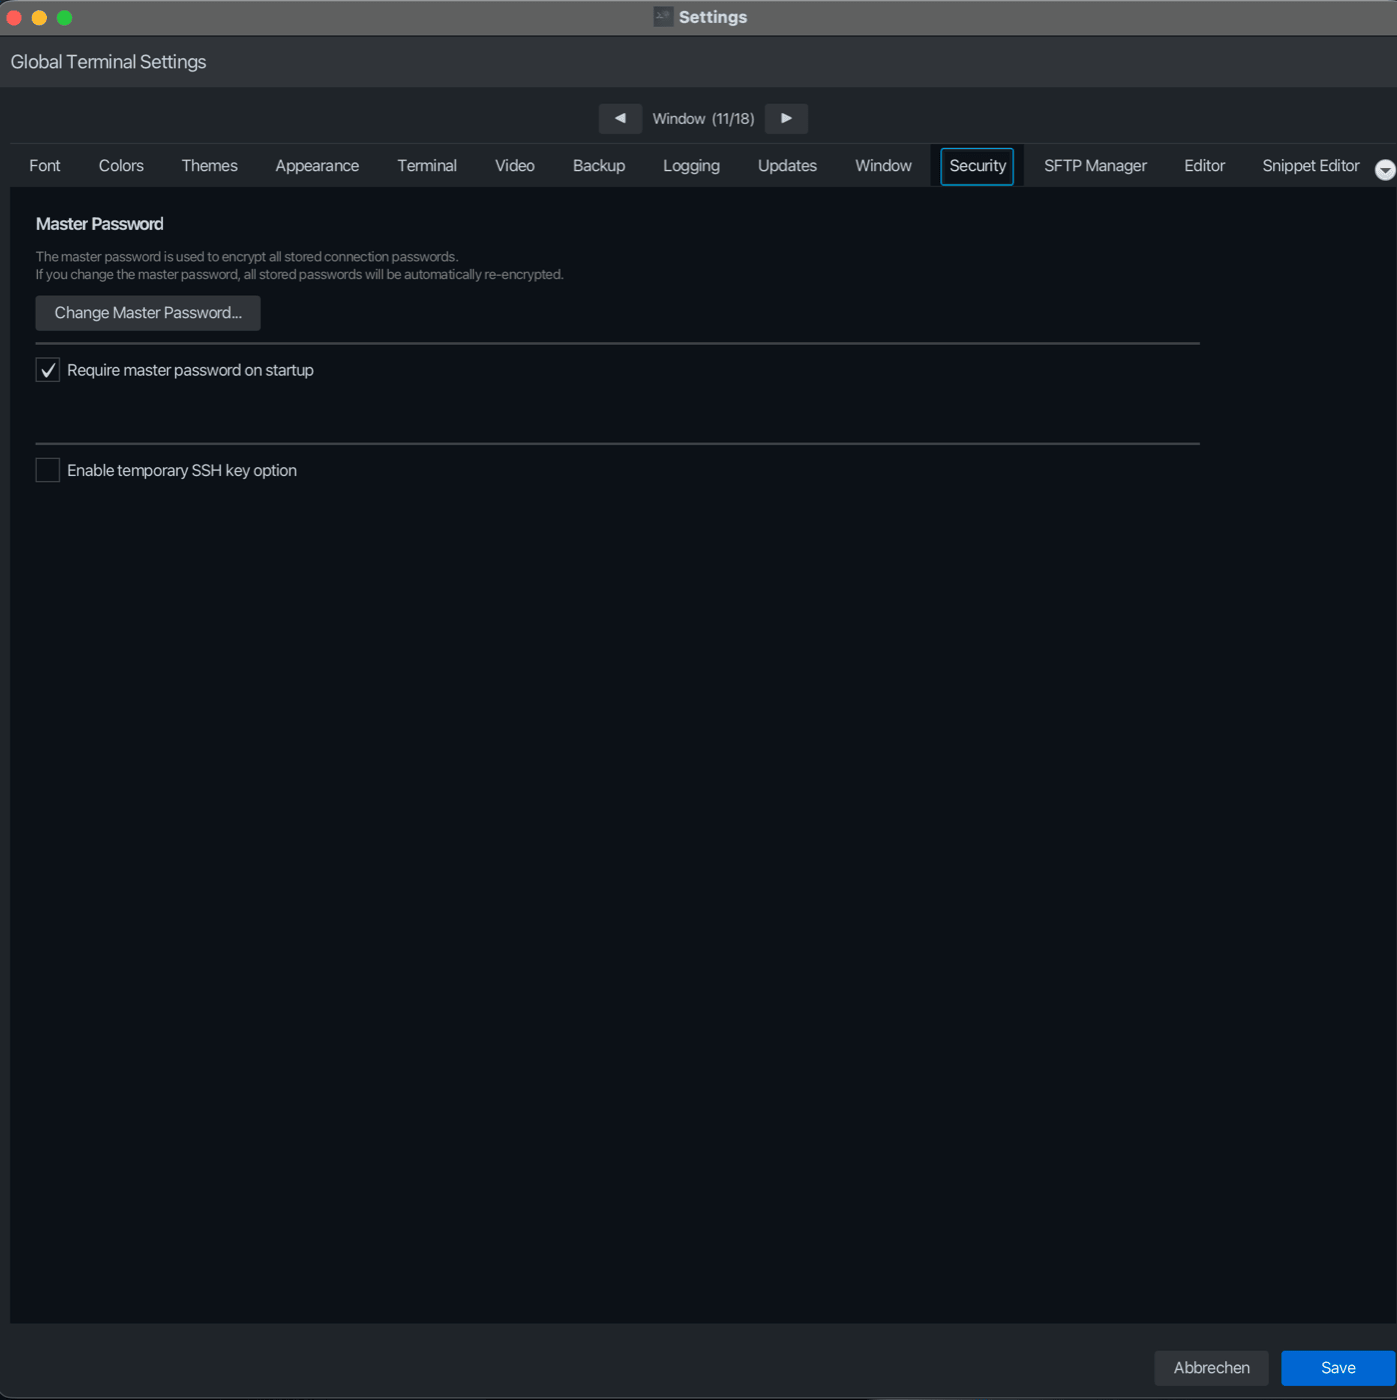
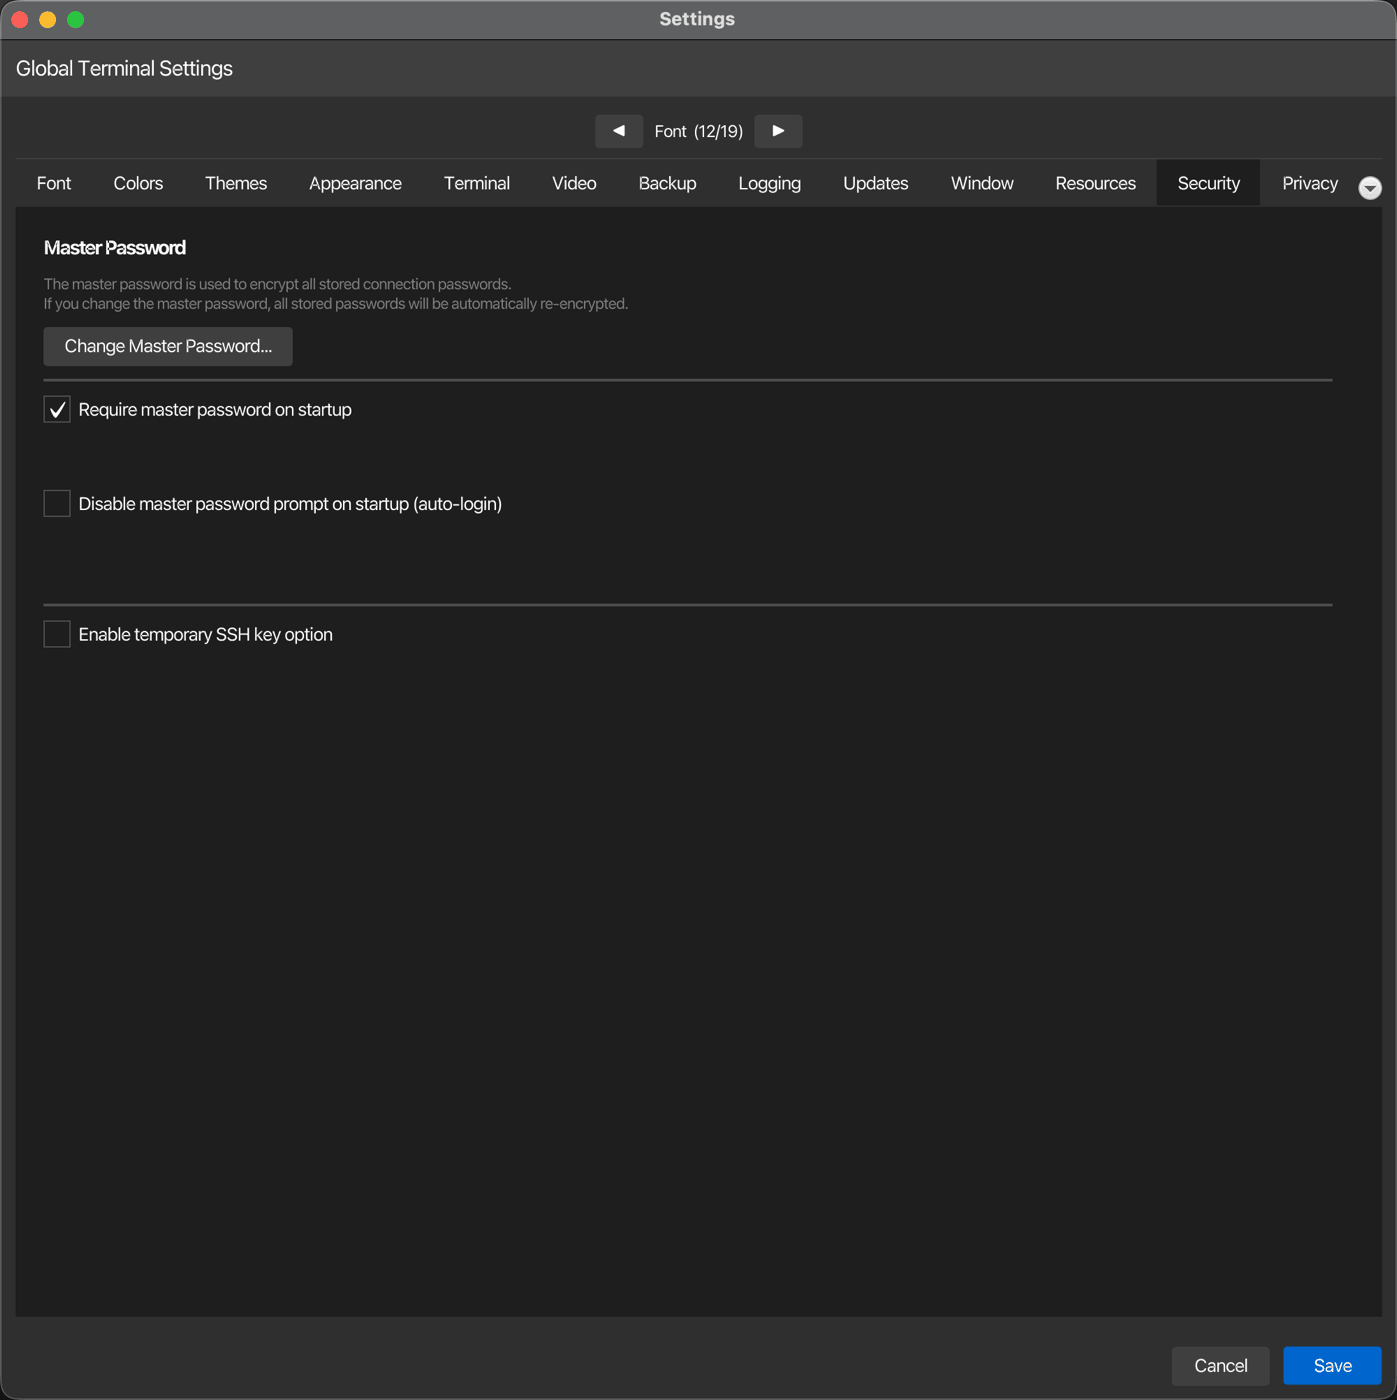
chore(docs): generalize the settings-screenshot harness; recapture Security tab
Rename WindowTabScreenshotStage to SettingsTabScreenshotStage and make the
tab selectable via -Pkortty.screenshotTabKey (default settings.tab.window),
so any Settings tab can be captured, not just Window/Security. The gradle
task becomes settingsTabScreenshotStage.

Recapture app-docs/screenshots/settings/security.png (and the staged
guide bundle copies) to show the new auto-login option, following the
1397x1400 English full-window convention.

Changed region(s): [[0.0, 0.0, 1.0, 1.0]]

diff --git a/src/test/java/de/kortty/ui/SettingsTabScreenshotStage.java b/src/test/java/de/kortty/ui/SettingsTabScreenshotStage.java
@@ -22,26 +22,32 @@ import java.util.concurrent.TimeUnit;
 import java.util.concurrent.atomic.AtomicReference;
 
 /**
- * Shows the REAL {@link SettingsDialog} with the Window tab selected as an on-screen window at a
+ * Shows the REAL {@link SettingsDialog} with a chosen tab selected as an on-screen window at a
  * fixed position and size, prints {@code READY x y w h} and keeps it open so the docs screenshot
  * can be captured externally via {@code screencapture -R} (the guide's settings screenshots are
  * real window captures including the macOS title bar). Closes on its own after 45 seconds, or as
  * soon as the file given as the first program argument exists (capture-done flag).
+ *
+ * <p>The tab to show is the i18n key given by the {@code kortty.screenshotTabKey} system property
+ * (e.g. {@code settings.tab.security}); it defaults to {@code settings.tab.window}. The dialog runs
+ * against an isolated temp home in English so no real credentials or German labels appear.
  */
-public final class WindowTabScreenshotStage {
+public final class SettingsTabScreenshotStage {
 
     private static final double X = 80;
     private static final double Y = 80;
     /** Pane size chosen so the decorated window's aspect matches the guide's 1397x1400 target. */
     private static final double PANE_WIDTH = 1000;
     private static final double PANE_HEIGHT = 974;
+    private static final String DEFAULT_TAB_KEY = "settings.tab.window";
 
-    private WindowTabScreenshotStage() {
+    private SettingsTabScreenshotStage() {
     }
 
     public static void main(String[] args) throws Exception {
         Path doneFlag = args.length > 0 && !args[0].isBlank() ? Path.of(args[0]) : null;
-        Path isolatedHome = Files.createTempDirectory("kortty-window-tab-screenshot");
+        String tabKey = System.getProperty("kortty.screenshotTabKey", DEFAULT_TAB_KEY);
+        Path isolatedHome = Files.createTempDirectory("kortty-settings-tab-screenshot");
         System.setProperty("user.home", isolatedHome.toString());
         Locale.setDefault(Locale.ENGLISH);
 
@@ -50,7 +56,7 @@ public final class WindowTabScreenshotStage {
 
         Platform.startup(() -> {
             try {
-                show(isolatedHome, doneFlag, done);
+                show(isolatedHome, doneFlag, tabKey, done);
             } catch (Throwable t) {
                 failure.compareAndSet(null, stack(t));
                 done.countDown();
@@ -60,17 +66,18 @@ public final class WindowTabScreenshotStage {
         boolean finished = done.await(60, TimeUnit.SECONDS);
         Platform.runLater(Platform::exit);
         if (failure.get() != null) {
-            System.err.println("WINDOW TAB SCREENSHOT FAILURE: " + failure.get());
+            System.err.println("SETTINGS TAB SCREENSHOT FAILURE: " + failure.get());
             System.exit(1);
         }
         if (!finished) {
-            System.err.println("WINDOW TAB SCREENSHOT TIMEOUT");
+            System.err.println("SETTINGS TAB SCREENSHOT TIMEOUT");
             System.exit(2);
         }
         System.exit(0);
     }
 
-    private static void show(Path isolatedHome, Path doneFlag, CountDownLatch done) throws Exception {
+    private static void show(Path isolatedHome, Path doneFlag, String tabKey, CountDownLatch done)
+            throws Exception {
         GlobalSettings settings = new GlobalSettings();
         settings.setLanguage("en");
         LanguageManager.getInstance().initialize(settings);
@@ -107,7 +114,7 @@ public final class WindowTabScreenshotStage {
             new javafx.animation.PauseTransition(javafx.util.Duration.millis(1200));
         announce.setOnFinished(e -> {
             try {
-                selectTab(dialog, I18n.get("settings.tab.window"));
+                selectTab(dialog, I18n.get(tabKey));
             } catch (Exception ex) {
                 throw new RuntimeException(ex);
             }
